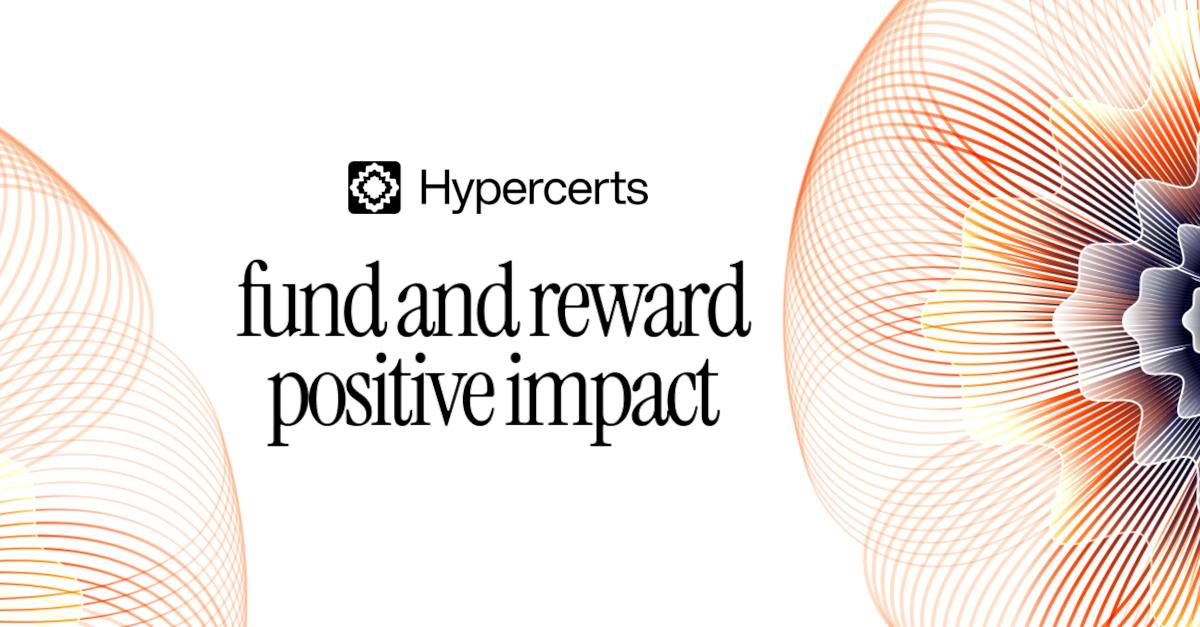
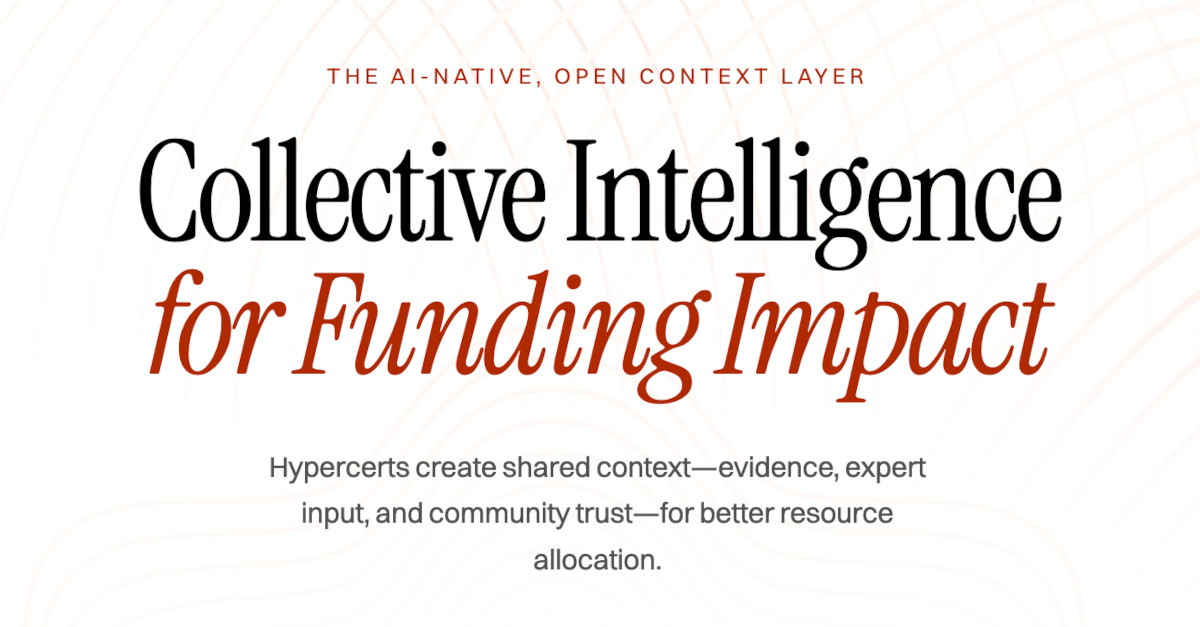
improve SEO — sitemap, structured data, OG image, blog schema
Sitemap: add all pages and dynamic blog posts with proper priorities.
Structured data: add WebSite schema alongside Organization, add
description to org. Blog posts: add Article schema with datePublished,
author, publisher. Add datetime attr to time elements. Update OG image
to match current site design and copy.

diff --git a/app/layout.tsx b/app/layout.tsx
@@ -64,19 +64,33 @@ export default function RootLayout({
         <script
           type="application/ld+json"
           dangerouslySetInnerHTML={{
-            __html: JSON.stringify({
-              "@context": "https://schema.org",
-              "@type": "Organization",
-              name: "Hypercerts Foundation",
-              url: "https://hypercerts.org",
-              logo: "https://hypercerts.org/img/hypercerts_logo_horizontal.svg",
-              sameAs: [
-                "https://bsky.app/profile/hypercerts.org",
-                "https://twitter.com/hypercerts",
-                "https://github.com/hypercerts-org",
-                "https://t.me/+YF9AYb6zCv1mNDJi",
-              ],
-            }),
+            __html: JSON.stringify([
+              {
+                "@context": "https://schema.org",
+                "@type": "Organization",
+                name: "Hypercerts Foundation",
+                url: "https://hypercerts.org",
+                logo: "https://hypercerts.org/img/hypercerts_logo_horizontal.svg",
+                description:
+                  "Hypercerts create shared context—evidence, expert input, and community trust—for better resource allocation.",
+                sameAs: [
+                  "https://bsky.app/profile/hypercerts.org",
+                  "https://twitter.com/hypercerts",
+                  "https://github.com/hypercerts-org",
+                  "https://t.me/+YF9AYb6zCv1mNDJi",
+                ],
+              },
+              {
+                "@context": "https://schema.org",
+                "@type": "WebSite",
+                name: "Hypercerts",
+                url: "https://hypercerts.org",
+                publisher: {
+                  "@type": "Organization",
+                  name: "Hypercerts Foundation",
+                },
+              },
+            ]),
           }}
         />
         <a

diff --git a/app/blog/[slug]/page.tsx b/app/blog/[slug]/page.tsx
@@ -37,8 +37,39 @@ export default async function BlogPostPage({ params }: Props) {
     day: "numeric",
   });
 
+  const isoDate = new Date(post.pubDate).toISOString();
+
   return (
     <main className="bg-white py-24 md:py-32">
+      <script
+        type="application/ld+json"
+        dangerouslySetInnerHTML={{
+          __html: JSON.stringify({
+            "@context": "https://schema.org",
+            "@type": "Article",
+            headline: post.title,
+            description: post.description,
+            datePublished: isoDate,
+            author: {
+              "@type": "Organization",
+              name: "Hypercerts Foundation",
+              url: "https://hypercerts.org",
+            },
+            publisher: {
+              "@type": "Organization",
+              name: "Hypercerts Foundation",
+              logo: {
+                "@type": "ImageObject",
+                url: "https://hypercerts.org/img/hypercerts_logo_horizontal.svg",
+              },
+            },
+            mainEntityOfPage: {
+              "@type": "WebPage",
+              "@id": `https://hypercerts.org/blog/${slug}`,
+            },
+          }),
+        }}
+      />
       <article className="max-w-3xl mx-auto px-6">
         {/* Back link */}
         <Link
@@ -54,7 +85,7 @@ export default async function BlogPostPage({ params }: Props) {
         </h1>
 
         <div className="flex items-center gap-4 mb-6 pb-8 border-b border-brand-accent/40">
-          <time className="font-body text-body-sm text-ui-grey-dark">
+          <time dateTime={isoDate} className="font-body text-body-sm text-ui-grey-dark">
             {date}
           </time>
           <span className="text-ui-separator">|</span>

diff --git a/app/sitemap.ts b/app/sitemap.ts
@@ -1,6 +1,16 @@
 import type { MetadataRoute } from "next";
+import { fetchBlogPosts } from "@/lib/rss";
 
-export default function sitemap(): MetadataRoute.Sitemap {
+export default async function sitemap(): Promise<MetadataRoute.Sitemap> {
+  const posts = await fetchBlogPosts();
+
+  const blogEntries = posts.map((post) => ({
+    url: `https://hypercerts.org/blog/${post.slug}`,
+    lastModified: new Date(post.pubDate),
+    changeFrequency: "monthly" as const,
+    priority: 0.7,
+  }));
+
   return [
     {
       url: "https://hypercerts.org",
@@ -8,5 +18,30 @@ export default function sitemap(): MetadataRoute.Sitemap {
       changeFrequency: "weekly",
       priority: 1,
     },
+    {
+      url: "https://hypercerts.org/blog",
+      lastModified: new Date(),
+      changeFrequency: "daily",
+      priority: 0.8,
+    },
+    {
+      url: "https://hypercerts.org/contact",
+      lastModified: new Date(),
+      changeFrequency: "monthly",
+      priority: 0.6,
+    },
+    {
+      url: "https://hypercerts.org/privacy",
+      lastModified: new Date(),
+      changeFrequency: "yearly",
+      priority: 0.3,
+    },
+    {
+      url: "https://hypercerts.org/terms",
+      lastModified: new Date(),
+      changeFrequency: "yearly",
+      priority: 0.3,
+    },
+    ...blogEntries,
   ];
 }
